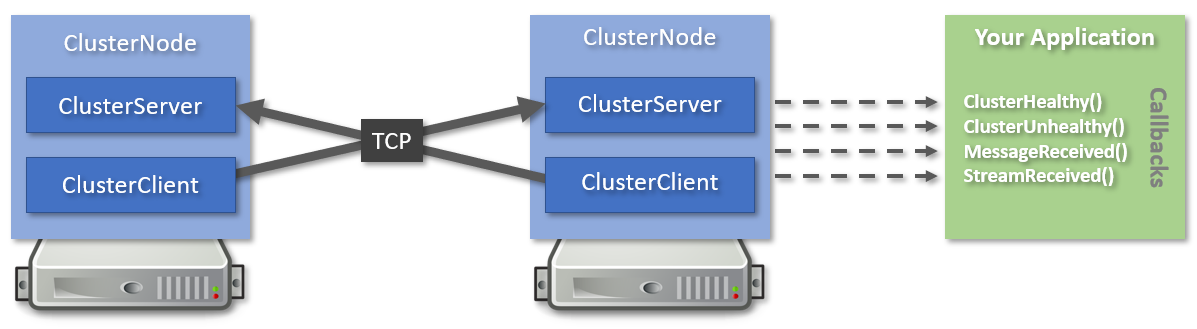
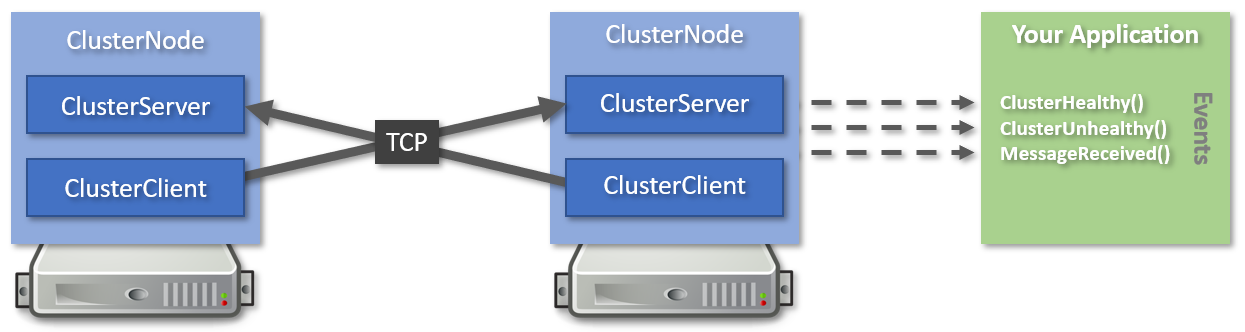
Image and README update

diff --git a/README.md b/README.md
@@ -7,7 +7,7 @@
 [nuget]:     https://www.nuget.org/packages/WatsonCluster/
 [nuget-img]: https://badge.fury.io/nu/Object.svg
 
-A simple C# class using WatsonTCP to enable a one-to-one high availability cluster targeted to .NET Core and .NET Framework, with or without SSL.  Callbacks are used to notify the encompassing application when the cluster is healthy (client and server connected) or unhealthy (client or server disconnected).
+Watson Cluster is the simplest, easiest, and fastest way to build highly-available applications using traditional 1+1 clustering.  Watson Cluster enables a one-to-one high availability cluster and is targeted to .NET Core and .NET Framework, with or without SSL.  Events are used to notify the encompassing application when the cluster is healthy (client and server connected) or unhealthy (client or server disconnected).
 
 ![alt tag](https://github.com/jchristn/WatsonCluster/blob/master/assets/image.png)
 
